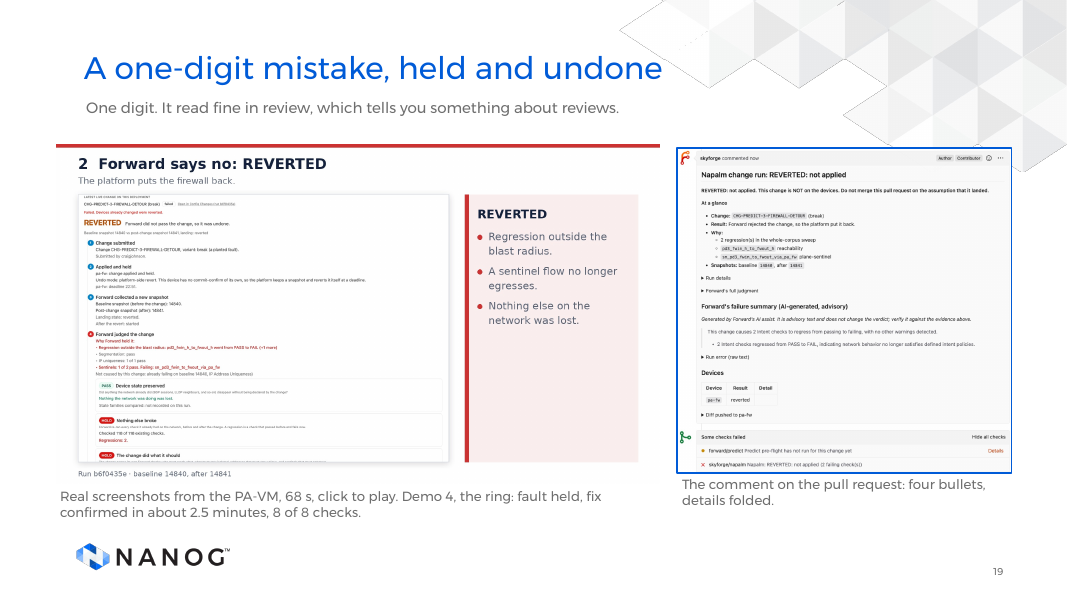
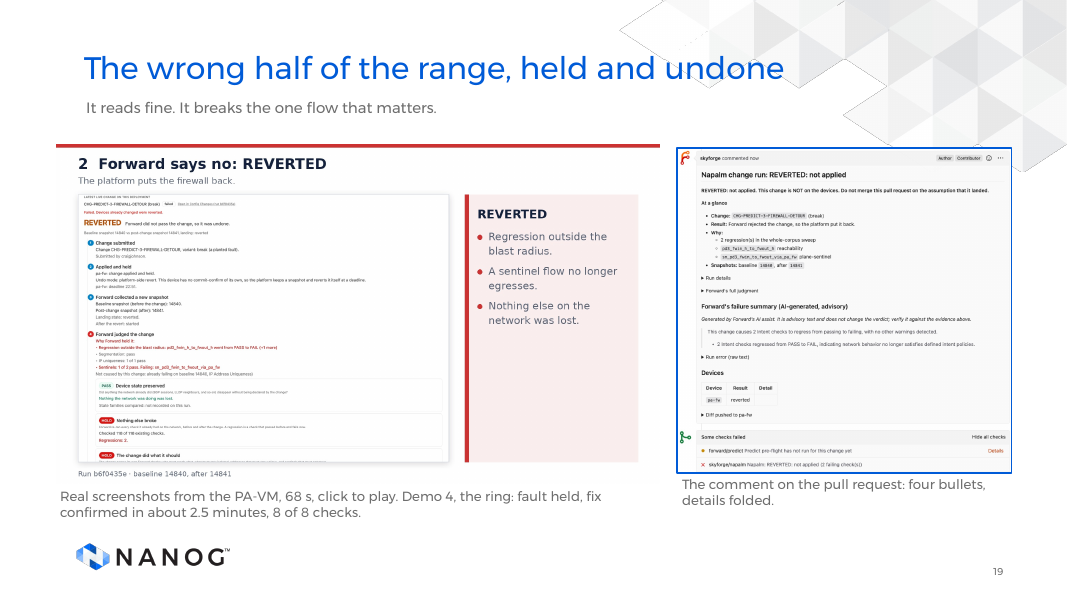
docs: NANOG 98 talk, routing cold open

Changed region(s): [[0.0619, 0.09, 0.7423, 0.21]]

diff --git a/docs/talks/nanog98/README.md b/docs/talks/nanog98/README.md
@@ -44,7 +44,7 @@ First, one puzzle.
 
 ---
 
-## 2. Which one is wrong?
+## 2. Safe to apply?
 
 ![slide 2](slides/s-02.png)
 
@@ -54,27 +54,27 @@ DELIVERY 00:30–01:30 (60 seconds).
 
 
 
-After the title, one slide before the thesis. Two firewall rules. Same source, same action, deny the inside LAN. They differ by one digit in the destination. Read both out, then pause and let the room look.
+After the title, a puzzle before the thesis. The ticket: tidy the export policy on ce-svc, a router in a small MPLS VPN lab. The services block is 10.20.30.0/24. Here is the policy before, and the one line after: the same prefix-list, with le 32 taken off. It reads like a tidy-up. Ask for a show of hands: safe to apply? Give them ten seconds.
 
 
 
-CLICK 1: 'Both pass review.' and the answer. A is the change I meant to make: retire a range that nothing uses. B is the fault I planted. B covers the lower half, where the one host that matters lives, so it shadows the permit for exactly the flow I care about. I did not catch that by reading it. I'll show you what did.
+CLICK 1: Not safe. The service is advertised as two /25s, 10.20.30.0/25 and 10.20.30.128/25. With le 32, the /24 line matches them. Without it, the line matches only the /24 itself, and neither /25 does. So ce-svc stops advertising the service. One line on one router, and the routes for that service are withdrawn from the VPN.
 
 
 
-CLICK 2: 'Ask me how I know.' Let it land.
+CLICK 2: The BGP session is still up, so an adjacency check passes. The service is gone anyway. I will show you the evidence for this one in a few minutes, from the lab and from the model. Nothing on the page tells you, you need the network.
 
 
 
-Then the stake: To find out which one is wrong, I could read it, run it in a lab, or ask a model of the network. Each tells me something different. This talk is about what each of them can and can't tell me, and what I learned building the lab.
+Then the stake: To find out whether it is safe, I could read it, run it in a lab, or ask a model of the network. Each tells me something different. This talk is about what each of them can and can not tell me, and what I learned building the lab.
 
 
 
 CLICK CUES
 
-1. On click: Both pass review. + A is the change I meant. B is the planted fault:.
+1. On click: Not safe. + Without le 32, neither /25 that ce-svc advertise.
 
-2. On click: Ask me how I know..
+2. On click: The BGP session stays up. The service is gone. A.
 
 
 
@@ -96,6 +96,10 @@ DELIVERY 01:30–03:00 (90 seconds).
 
 
 
+Bridge from the puzzle first: there were three ways to find out whether that edit was safe. Reading it did not catch it. The other two are an emulator and a digital twin, and they answer different questions. That is this talk.
+
+
+
 Here is the thesis in one line. An emulator is not a digital twin. They are different kinds of thing, and building an emulator is what made that visible to me.
 
 
@@ -104,7 +108,7 @@ Let me define the two words once, because I will use them all talk. An emulator 
 
 
 
-Neither is a better version of the other. The question I am asking decides the evidence I need. The strip at the bottom is the arc. Why I built it and how it is built. What the lab and the twin each tell me. Then how I run a change now: the lab proves the machinery works, and the twin judges the change. I need both.
+Neither is a better version of the other. The question I am asking decides the evidence I need. The strip at the bottom is the arc of the talk: why I built Skyforge and how it works, what building an emulator taught me, one change examined by both machines, and how I would run a change now.
 
 
 
@@ -428,7 +432,7 @@ Seen that way, the two are complementary. The next slides show them side by side
 
 
 
-Back to rule B from the first slide: it reads fine, and a lab can run it. Only a model of the whole network shows which flow it breaks, and that is the question I asked at the start.
+Back to the prefix-list from the first slide: it reads fine, and a lab can run it. Only a model of the whole network shows which paths it takes away, and that is the question I asked at the start.
 
 
 
@@ -601,6 +605,10 @@ Public documentation describes BGP/routing change analysis. Exact version/featur
 <details><summary>Speaker notes</summary>
 
 DELIVERY 14:30–15:40 (70 seconds).
+
+
+
+This is the prefix-list from the first slide: the one line with le 32 taken off. Now you can see what each machine says about it.
 
 
 
@@ -842,7 +850,7 @@ Now watch it happen.
 
 ---
 
-## 19. A one-digit mistake, held and undone
+## 19. The wrong half of the range, held and undone
 
 ![slide 19](slides/s-19.png)
 
@@ -852,7 +860,7 @@ DELIVERY 22:10–28:50 (400 seconds).
 
 
 
-Callback first: this is rule B from the first slide, the one that read fine. Here is what caught it, and what did not.
+Callback first: the first slide was a routing edit that read fine. This is a different kind of change, a firewall rule, with the same problem: it reads fine and it breaks a flow. Here is what caught it, and what did not.
 
 
 
@@ -1294,7 +1302,7 @@ BACKUP (not presented).
 
 
 
-Backup. This is the firewall change from demo 3 written as one intent, from the design draft. The one-digit fault is a one-line patch: the break variant overrides dst with the lower half of the range. The reachable and path entries are where the checks and the Predict probes would be derived from. Two honesty points. The firewall policy plugin is ours, not stock netlab, so those names are netlab-style but not upstream. And the position field, and the idea of removal, are names I had to invent because netlab has no equivalent. This is designed and prototyped, not shipped.
+Backup. This is the firewall change from demo 3 written as one intent, from the design draft. The planted fault is a one-line patch: the break variant overrides dst with the lower half of the range. The reachable and path entries are where the checks and the Predict probes would be derived from. Two honesty points. The firewall policy plugin is ours, not stock netlab, so those names are netlab-style but not upstream. And the position field, and the idea of removal, are names I had to invent because netlab has no equivalent. This is designed and prototyped, not shipped.
 
 
 

diff --git a/docs/talks/nanog98/V15_RUN_OF_SHOW.md b/docs/talks/nanog98/V15_RUN_OF_SHOW.md
@@ -5,7 +5,7 @@
 | # | time | s | builds | slide |
 |---|---|---|---|---|
 | 1 | 00:00-00:30 | 30 | 0 | What Building a Network Emulation Platform Taught Me About Digital Twins |
-| 2 | 00:30-01:30 | 60 | 2 | Which one is wrong? |
+| 2 | 00:30-01:30 | 60 | 2 | Safe to apply? |
 | 3 | 01:30-03:00 | 90 | 5 | An emulator is not a digital twin |
 | 4 | 03:00-04:25 | 85 | 5 | Why I built Skyforge |
 | 5 | 04:25-05:10 | 45 | 6 | One declaration, a running network |
@@ -22,7 +22,7 @@
 | 16 | 16:10-16:40 | 30 | 4 | I reach for a model when scope matters |
 | 17 | 16:40-19:30 | 170 | 7 | A change waits until the twin has judged it |
 | 18 | 19:30-22:10 | 160 | 5 | Forward asks three things |
-| 19 | 22:10-28:50 | 400 | 2 | A one-digit mistake, held and undone |
+| 19 | 22:10-28:50 | 400 | 2 | The wrong half of the range, held and undone |
 | 20 | 28:50-31:05 | 135 | 6 | A firewall can’t undo itself, so the platform does |
 | 21 | 31:05-33:00 | 115 | 6 | Say the change once: designed and prototyped |
 | 22 | 33:00-35:20 | 140 | 5 | The twin judged it right. The machinery broke. |
